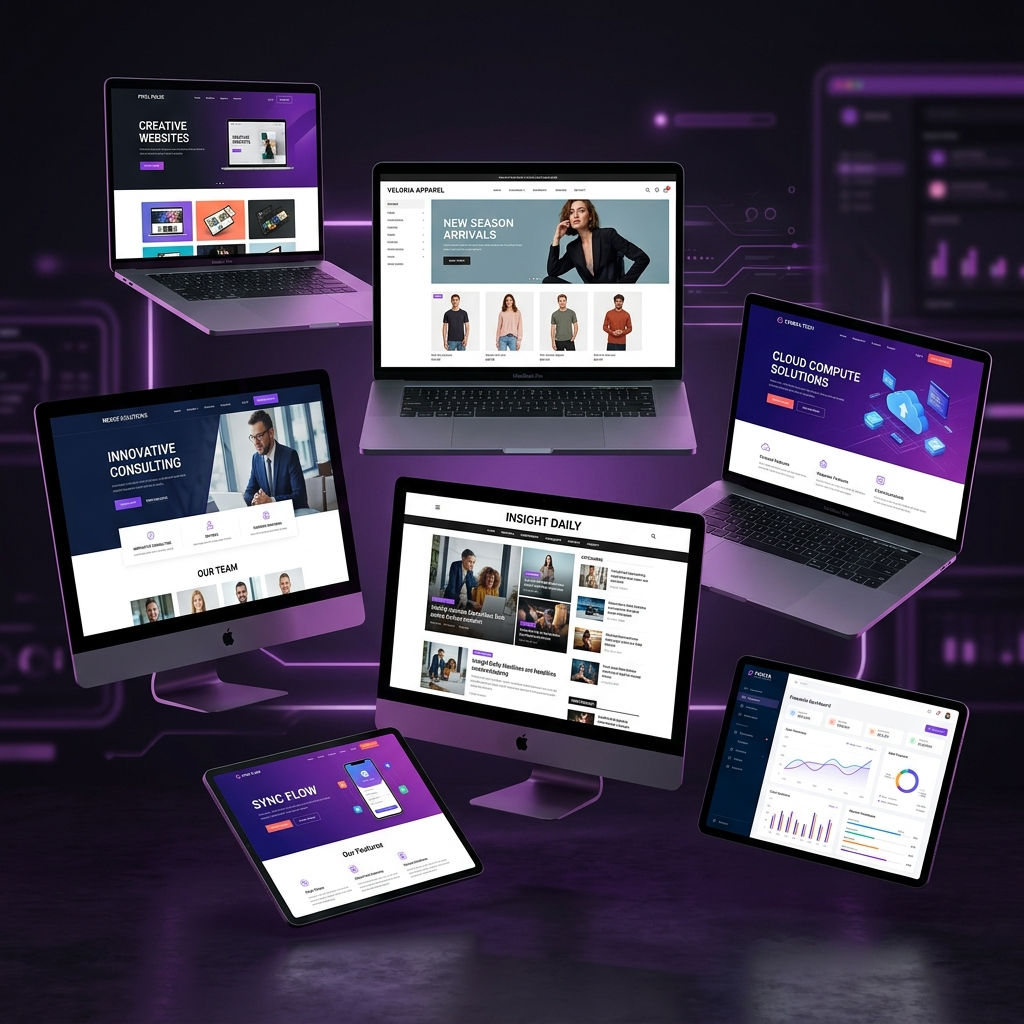
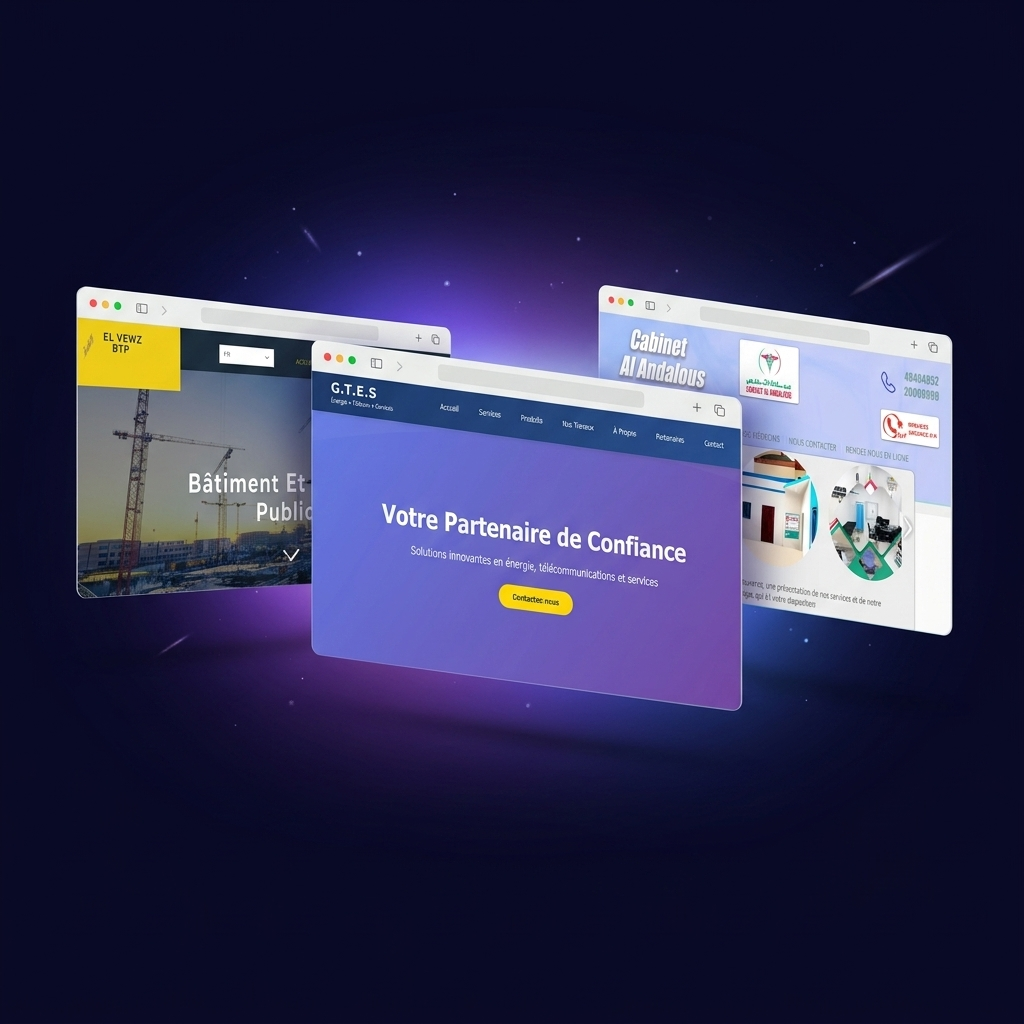
Update websites portfolio image with real client projects

diff --git a/index-ar.html b/index-ar.html
@@ -385,7 +385,7 @@
         <!-- Project 3 — Sites Web -->
         <div class="portfolio-card reveal reveal-delay-3" data-category="web" id="project-websites">
           <div class="portfolio-image">
-            <img src="assets/websites.png" alt="مواقع ويب تم تصميمها بواسطة وجهة" />
+            <img src="assets/websites.png?v=2" alt="مواقع ويب تم تصميمها بواسطة وجهة" />
             <div class="portfolio-overlay">
               <div class="portfolio-overlay-content">
                 <span class="portfolio-category-badge">تطوير الويب</span>

diff --git a/index.html b/index.html
@@ -400,7 +400,7 @@
         <!-- Project 3 — Sites Web -->
         <div class="portfolio-card reveal reveal-delay-3" data-category="web" id="project-websites">
           <div class="portfolio-image">
-            <img src="assets/websites.png" alt="Sites web réalisés par Wijha" />
+            <img src="assets/websites.png?v=2" alt="Sites web réalisés par Wijha" />
             <div class="portfolio-overlay">
               <div class="portfolio-overlay-content">
                 <span class="portfolio-category-badge">Développement Web</span>